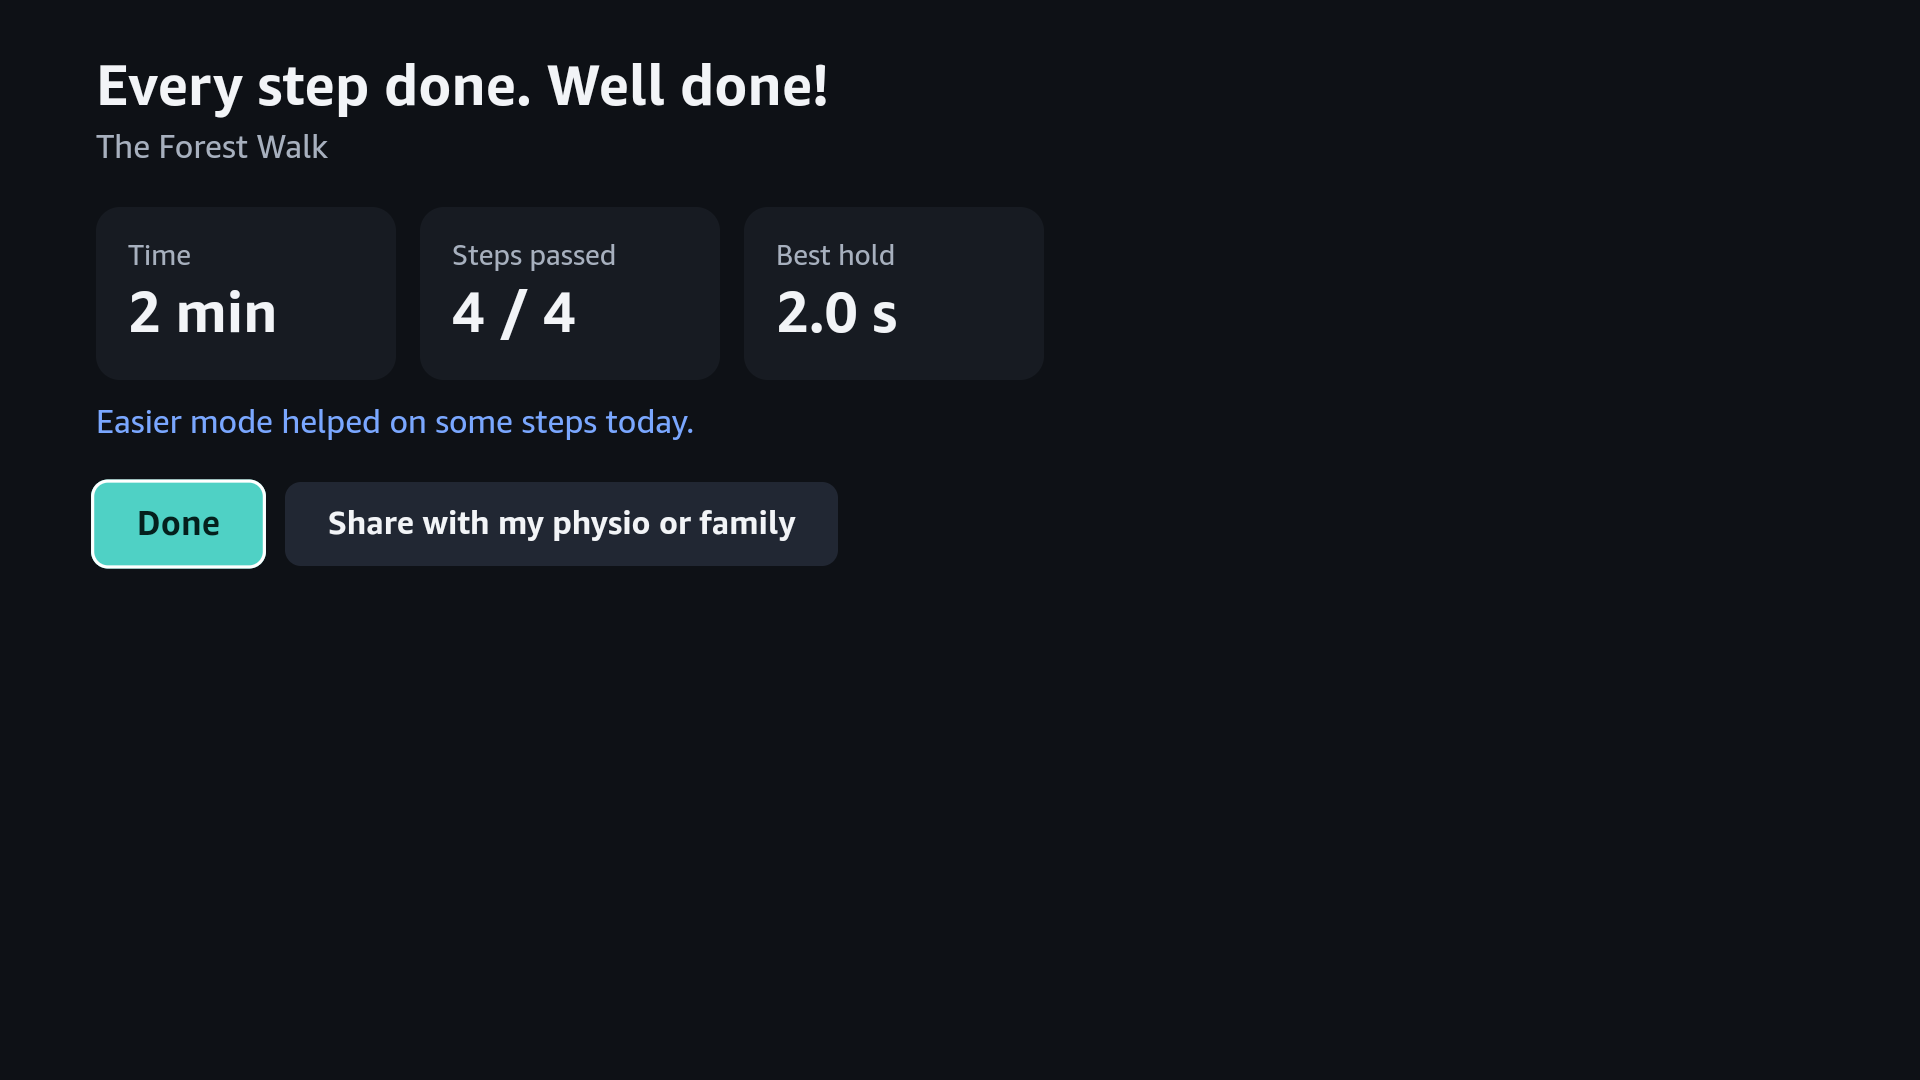
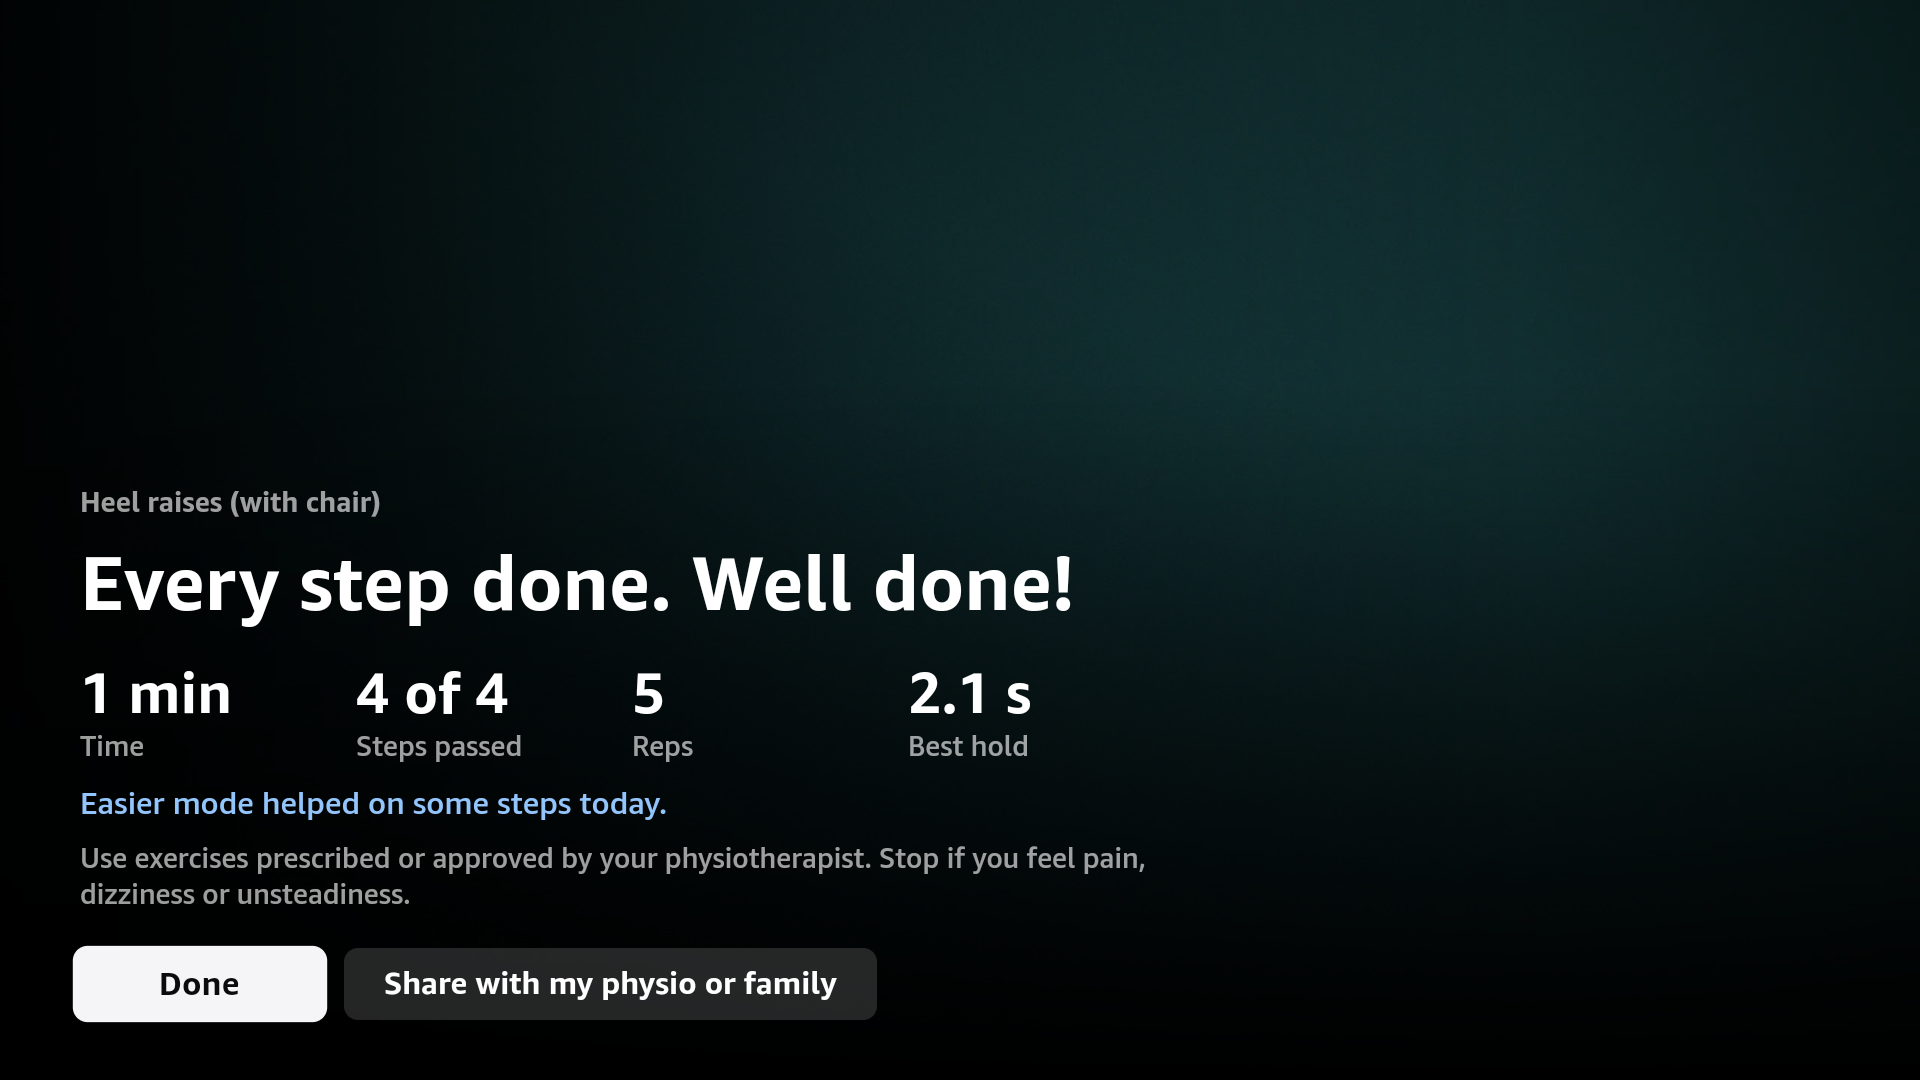
docs: README TV screenshots from the redesigned app on the Vega Virtual Device; design notes

diff --git a/README.md b/README.md
@@ -83,13 +83,24 @@ test camera and real MediaPipe inference.
 | :----------------------------------------------------------------------: | :-------------------------------------------------------------------------------: | :---------------------------------------------------------------------------------: |
 | ![Who's practising? profile picker](docs/screenshots/tv/00-profiles.png) | ![Lesson page with steps and camera placement](docs/screenshots/tv/04-lesson.png) | ![Pair your camera: QR code and 4-digit room code](docs/screenshots/tv/05-pair.png) |
 
-|                                                                             Player: gate waiting                                                                             |                                                         Player: hold gate                                                          |                                        Summary                                        |
-| :--------------------------------------------------------------------------------------------------------------------------------------------------------------------------: | :--------------------------------------------------------------------------------------------------------------------------------: | :-----------------------------------------------------------------------------------: |
-| ![Video paused at "Crouch small like a mouse"; hint "Bend your left knee more"; the off joints are ringed and the legs drawn red](docs/screenshots/tv/06-player-waiting.png) | ![Flamingo hold: 2 s countdown ring, torso drawn green while it matches, Easier mode chip](docs/screenshots/tv/07-player-hold.png) | ![Summary: Every step done, 4/4, best hold 2.0 s](docs/screenshots/tv/08-summary.png) |
+|                                                                       Player: gate waiting                                                                        |                                                                Player: hold gate                                                                |                                                Summary                                                 |
+| :---------------------------------------------------------------------------------------------------------------------------------------------------------------: | :---------------------------------------------------------------------------------------------------------------------------------------------: | :----------------------------------------------------------------------------------------------------: |
+| ![Heel raises paused at step 3: rep counter 0 of 5, the coach tip shown on the video like a subtitle, step rail below](docs/screenshots/tv/06-player-waiting.png) | ![Rise onto your toes and hold: 2 s countdown ring, legs drawn green while they match, step rail below](docs/screenshots/tv/07-player-hold.png) | ![Summary: Every step done, 4 of 4 steps, 5 reps, best hold 2.1 s](docs/screenshots/tv/08-summary.png) |
 
 |                                  Camera lost (safety pause)                                  |                          Home                          |                         New profile (on-screen keyboard)                          |
 | :------------------------------------------------------------------------------------------: | :----------------------------------------------------: | :-------------------------------------------------------------------------------: |
 | ![Camera disconnected: the lesson pauses within 2 s](docs/screenshots/tv/09-camera-lost.png) | ![Home with channels](docs/screenshots/tv/03-home.png) | ![New profile keyboard and colour picker](docs/screenshots/tv/02-new-profile.png) |
+
+|                                 My progress                                  |                                    Settings                                    |                        Welcome                        |
+| :--------------------------------------------------------------------------: | :----------------------------------------------------------------------------: | :---------------------------------------------------: |
+| ![Last 14 days: sessions, reps, streak](docs/screenshots/tv/11-progress.png) | ![Settings list: label left, value right](docs/screenshots/tv/10-settings.png) | ![Welcome screen](docs/screenshots/tv/01-welcome.png) |
+
+**Design.** The TV app follows Apple's tvOS 18 design templates for metrics and behaviour, not for branding:
+80 × 60 px safe area, 4-up lockups (410 × 231, 40 px gutters), 72 px button platters that turn white with a dark
+label on focus, a pill tab bar holding only the three real destinations, the product-page layout for lessons,
+the QR sign-in layout for pairing and Post Play for the summary. Type is Amazon Ember (Vega's system face) on a
+tvOS-derived scale with a 28 px floor for older viewers at 2–3 m. Vega has no backdrop blur, so "materials" are
+translucent glass over black. Lesson artwork is placeholder until real footage is recorded.
 
 ### Phone
 
